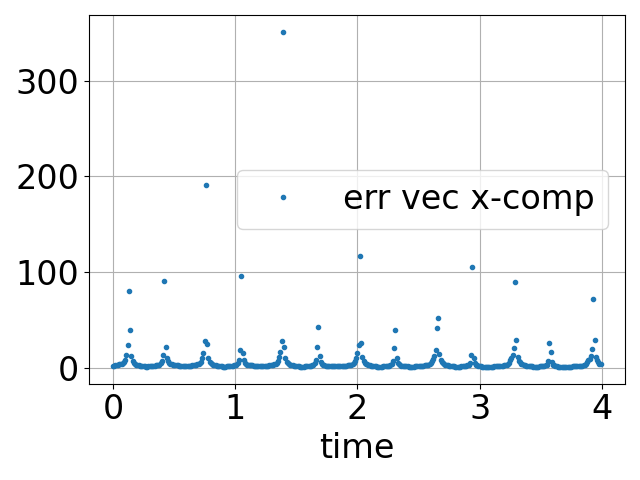
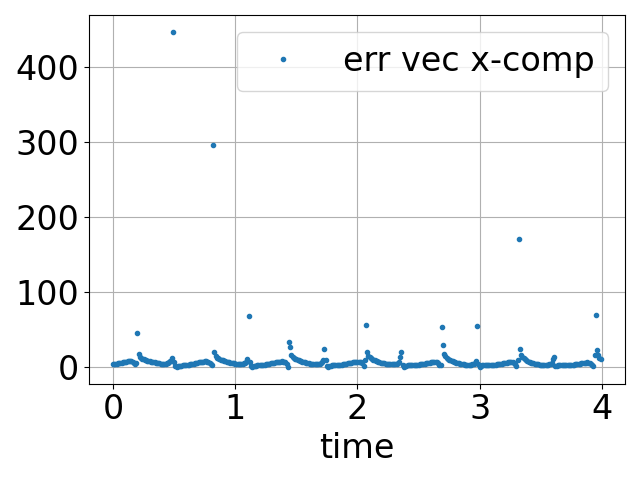
shortened plot_attractor()

diff --git a/test/test_lorenz.py b/test/test_lorenz.py
@@ -32,16 +32,36 @@ def lorenz(t, u, params=[10.0,28.0,8/3]):
         ])
     return du
 
+def rossler(t, X):
+    '''Parameter values picked from: The study of Lorenz and Rössler strange attractors by means of quantum theory by Bogdanov et al.
+    https://arxiv.org/ftp/arxiv/papers/1412/1412.2242.pdf
+    LE:  0.07062, 0.000048, -5.3937
+    '''
+    x, y, z = X
+    a = 0.2
+    b = 0.2
+    c = 5.7
+    
+    dx = -(y + z)
+    dy = x + a * y
+    dz = b + z * (x - c)
+    return torch.stack([dx, dy, dz])
+
 class ODE_Lorenz(nn.Module):
     '''Define Neural Network that approximates differential equation system of Chaotic Lorenz'''
+    # Neural Propogator?
 
     def __init__(self, y_dim=3, n_hidden=32*9):
         super(ODE_Lorenz, self).__init__()
         self.net = nn.Sequential(
             nn.Linear(3, 512),
             nn.GELU(),
-            nn.Linear(512, 1024),
-            nn.GELU(),
+            # nn.Linear(512, 512),
+            # nn.GELU(),
+            # nn.Linear(512, 1024),
+            # nn.GELU(),
+            # nn.Linear(1024, 1024),
+            # nn.GELU(),
             nn.Linear(1024, 3)
         )
 
@@ -67,15 +87,6 @@ def create_data(dyn_info, n_train, n_test, n_trans):
     X_test = traj[:n_test]
     Y_test = traj[1:]
     return [X, Y, X_test, Y_test]
-
-def reg_jacobian_loss(time_step, True_J, cur_model_J, output_loss, reg_param):
-
-    diff_jac = True_J - cur_model_J
-    norm_diff_jac = torch.norm(diff_jac)
-
-    total_loss = reg_param * norm_diff_jac**2 + output_loss
-
-    return total_loss
 
 def train(dyn_sys_info, model, device, dataset, optim_name, criterion, epochs, lr, weight_decay, reg_param, loss_type):
 
@@ -152,54 +163,39 @@ def plot_loss(epochs, train, test):
     savefig('../plot/loss.png', bbox_inches ='tight', pad_inches = 0.1)
 
 def plot_attractor(model, dyn_info, time):
-    # generate data
+    # generate true orbit and learned orbit
     dyn, dim, time_step = dyn_info
     tran_orbit = torchdiffeq.odeint(dyn, torch.randn(dim), torch.arange(0, 5, time_step), method='rk4', rtol=1e-8)
-
     true_o = torchdiffeq.odeint(dyn, tran_orbit[-1], torch.arange(0, time, time_step), method='rk4', rtol=1e-8)
-
-    model.eval()
-    learned_o = torchdiffeq.odeint(model.to(device), tran_orbit[-1].to(device), torch.arange(0, time, time_step), method="rk4", rtol=1e-8).detach().cpu().numpy()
+    learned_o = torchdiffeq.odeint(model.eval().to(device), tran_orbit[-1].to(device), torch.arange(0, time, time_step), method="rk4", rtol=1e-8).detach().cpu().numpy()
 
     # create plot
     fig, axs = subplots(2, 3, figsize=(24,12))
     cmap = cm.plasma
-    idx = 0
+    num_row, num_col = axs.shape
 
-    for ax in axs.flatten():
-        if idx == 0 or idx == 3:
-            if idx == 0:
-                ax.plot(true_o[0, 0], true_o[0, 1], '+', markersize=35, color=cmap.colors[0])
-                ax.scatter(true_o[:, 0], true_o[:, 1], c=true_o[:, 2], s = 6, cmap='plasma', alpha=0.5)
+    for x in range(num_row):
+        for y in range(num_col):
+            orbit = true_o if x == 0 else learned_o
+            if y == 0:
+                axs[x,y].plot(orbit[0, 0], orbit[0, 1], '+', markersize=35, color=cmap.colors[0])
+                axs[x,y].scatter(orbit[:, 0], orbit[:, 1], c=orbit[:, 2], s = 6, cmap='plasma', alpha=0.5)
+                axs[x,y].set_xlabel("X")
+                axs[x,y].set_ylabel("Y")
+            elif y == 1:
+                axs[x,y].plot(orbit[0, 0], orbit[0, 2], '+', markersize=35, color=cmap.colors[0])
+                axs[x,y].scatter(orbit[:, 0], orbit[:, 2], c=orbit[:, 2], s = 6, cmap='plasma', alpha=0.5)
+                axs[x,y].set_xlabel("X")
+                axs[x,y].set_ylabel("Z")
             else:
-                ax.plot(learned_o[0, 0], learned_o[0, 1], '+', markersize=35, color=cmap.colors[0])
-                ax.scatter(learned_o[:, 0], learned_o[:, 1], c=learned_o[:, 2], s = 6, cmap='plasma', alpha=0.5)
-            ax.set_xlabel("X")
-            ax.set_ylabel("Y")
-        elif idx == 1 or idx == 4:
-            if idx == 0:
-                ax.plot(true_o[0, 0], true_o[0, 2], '+', markersize=35, color=cmap.colors[0])
-                ax.scatter(true_o[:, 0], true_o[:, 2], c=true_o[:, 2], s = 6, cmap='plasma', alpha=0.5)
-            else:
-                ax.plot(learned_o[0, 0], learned_o[0, 2], '+', markersize=35, color=cmap.colors[0])
-                ax.scatter(learned_o[:, 0], learned_o[:, 2], c=learned_o[:, 2], s = 6, cmap='plasma', alpha=0.5)
-            ax.set_xlabel("X")
-            ax.set_ylabel("Z")
-        else:
-            if idx == 2:
-                ax.plot(true_o[0, 1], true_o[0, 2], '+', markersize=35, color=cmap.colors[0])
-                ax.scatter(true_o[:, 1], true_o[:, 2], c=true_o[:, 2], s = 6, cmap='plasma', alpha=0.5)
-            else:
-                ax.plot(learned_o[0, 1], learned_o[0, 2], '+', markersize=35, color=cmap.colors[0])
-                ax.scatter(learned_o[:, 1], learned_o[:, 2], c=learned_o[:, 2], s = 6, cmap='plasma', alpha=0.5)
-            ax.set_xlabel("Y")
-            ax.set_ylabel("Z")
-        idx += 1
-
-        ax.tick_params(labelsize=42)
-        ax.xaxis.label.set_size(42)
-        ax.yaxis.label.set_size(42)
-
+                axs[x,y].plot(orbit[0, 1], orbit[0, 2], '+', markersize=35, color=cmap.colors[0])
+                axs[x,y].scatter(orbit[:, 1], orbit[:, 2], c=orbit[:, 2], s = 6, cmap='plasma', alpha=0.5)
+                axs[x,y].set_xlabel("Y")
+                axs[x,y].set_ylabel("Z")
+        
+            axs[x,y].tick_params(labelsize=42)
+            axs[x,y].xaxis.label.set_size(42)
+            axs[x,y].yaxis.label.set_size(42)
     tight_layout()
     fig.savefig("../plot/Phase_plot/phase_plot.png", format='png', dpi=400, bbox_inches ='tight', pad_inches = 0.1)
     return
@@ -234,15 +230,8 @@ def plot_vf(model, dyn_info):
 def plot_vector_field(model, path, idx, t, N, device='cuda'):
     # Credit: https://torchdyn.readthedocs.io/en/latest/_modules/torchdyn/utils.html
 
-    "Plots vector field and trajectories on it."
-
-    if idx == 1:
-        x = torch.linspace(-50, 50, N)
-        y = torch.linspace(-50, 50, N)
-    else:
-        x = torch.linspace(-20, 20, N)
-        y = torch.linspace(0, 40, N)
-        
+    x = torch.linspace(-50, 50, N)
+    y = torch.linspace(-50, 50, N)
     X, Y = torch.meshgrid(x,y)
     U, V = torch.zeros(N,N), torch.zeros(N,N)
     print("shape", X.shape, Y.shape)
@@ -282,6 +271,61 @@ def plot_vector_field(model, path, idx, t, N, device='cuda'):
     return
 
 
+def lyap_exps(dyn_sys_info, true_traj, iters, method, model):
+    ''' Compute Lyapunov Exponents 
+        args: path = path to model '''
+
+    # Initialize parameter
+    dyn_sys_func, dim, time_step = dyn_sys_info
+    # QR Method where U = tangent vector, V = regular system
+    U = torch.eye(dim)
+    lyap_exp = [] #empty list to store the lengths of the orthogonal axes
+
+    real_time = iters * time_step
+    t_eval_point = torch.linspace(0, time_step, 2)
+
+    if method == "NODE":
+        device = 'cuda' if torch.cuda.is_available() else 'cpu'
+        t_eval_point = t_eval_point.to(device)
+        model.eval()
+
+        for i in range(iters):
+            if i % 1000 == 0:
+                print(i)
+
+            #update x0
+            x0 = true_traj[i].to(device)
+            cur_J = F.jacobian(lambda x: torchdiffeq.odeint(model, x, t_eval_point, method="rk4"), x0)[1]
+
+            J = torch.matmul(cur_J.to("cpu"), U.to("cpu"))
+
+            # QR Decomposition for J
+            Q, R = torch.linalg.qr(J)
+
+            lyap_exp.append(torch.log(abs(R.diagonal())))
+            U = Q #new axes after iteration
+
+        LE = [sum([lyap_exp[i][j] for i in range(iters)]) / (real_time) for j in range(dim)]
+
+    else:
+        for i in range(iters):
+
+            #update x0
+            x0 = true_traj[i]
+            cur_J = F.jacobian(lambda x: torchdiffeq.odeint(dyn_sys_func, x, t_eval_point, method=method), x0)[1]
+         
+            J = torch.matmul(cur_J, U)
+
+            # QR Decomposition for J
+            Q, R = torch.linalg.qr(J)
+
+            lyap_exp.append(torch.log(abs(R.diagonal())))
+            U = Q #new axes after iteration
+
+        LE = [sum([lyap_exp[i][j] for i in range(iters)]) / (real_time) for j in range(dim)]
+
+    return torch.tensor(LE)
+
 
 if __name__ == '__main__':
 
@@ -295,9 +339,9 @@ if __name__ == '__main__':
     parser.add_argument("--time_step", type=float, default=1e-2)
     parser.add_argument("--lr", type=float, default=5e-4)
     parser.add_argument("--weight_decay", type=float, default=1e-4)
-    parser.add_argument("--num_epoch", type=int, default=3000)
-    parser.add_argument("--num_train", type=int, default=5000)
-    parser.add_argument("--num_test", type=int, default=3000)
+    parser.add_argument("--num_epoch", type=int, default=5000)
+    parser.add_argument("--num_train", type=int, default=10000)
+    parser.add_argument("--num_test", type=int, default=8000)
     parser.add_argument("--num_trans", type=int, default=0)
     parser.add_argument("--loss_type", default="MSE", choices=["Jacobian", "MSE", "Auto_corr"])
     parser.add_argument("--reg_param", type=float, default=1e-2)
@@ -326,3 +370,9 @@ if __name__ == '__main__':
     JAC_plot_path = '../plot/Vector_field/JAC.jpg'
     plot_vector_field(m, path=JAC_plot_path, idx=1, t=0., N=100, device='cuda')
     plot_attractor(m, dyn_sys_info, 20)
+
+    # compute LE
+    true_traj = torchdiffeq.odeint(lorenz, torch.randn(dim), torch.arange(0, 300, args.time_step), method='rk4', rtol=1e-8)
+    learned_LE = lyap_exps(dyn_sys_info, true_traj, 30000, "NODE", m)
+    True_LE = lyap_exps(dyn_sys_info, true_traj, 30000, "rk4", m)
+    print("Learned:", learned_LE, "True:", True_LE)
